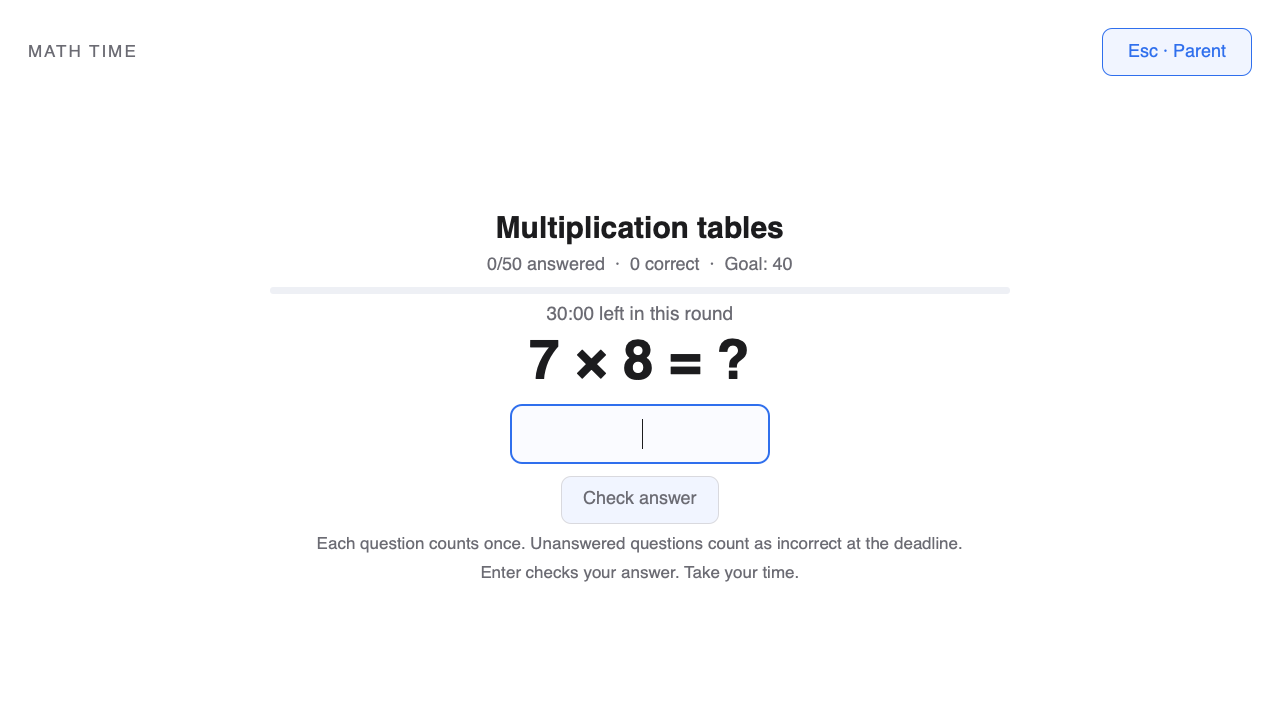
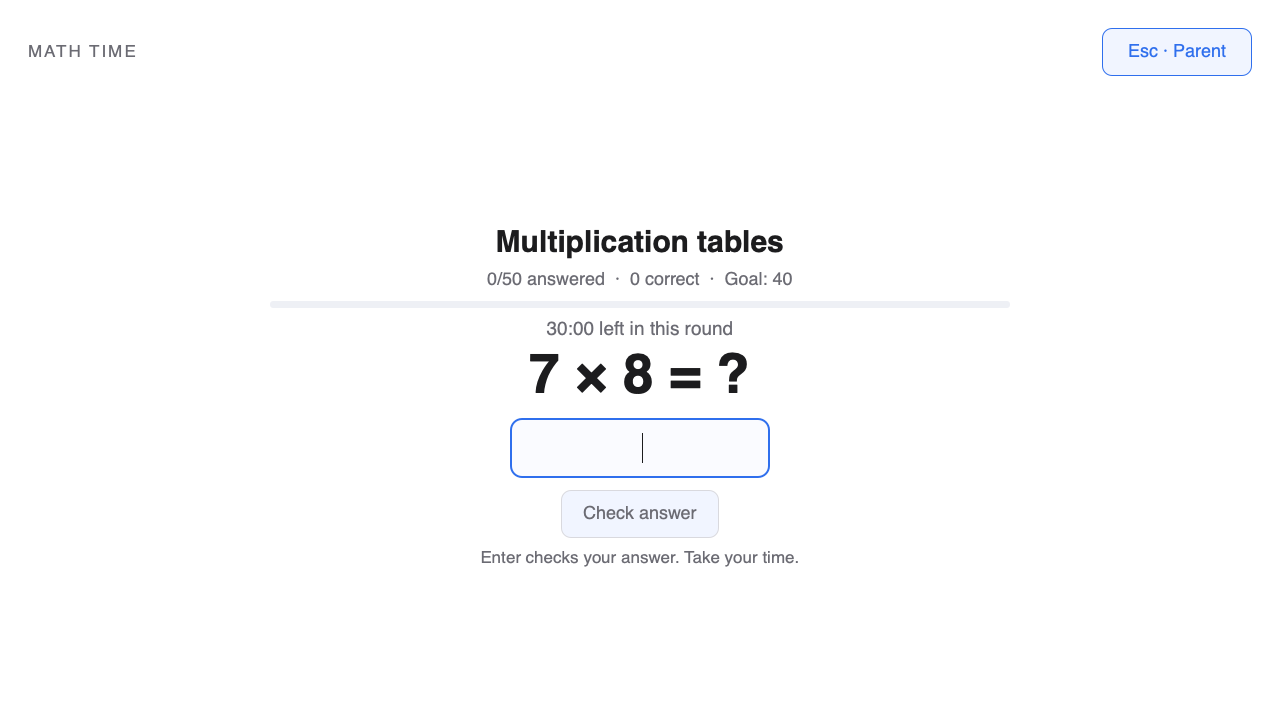
Remove scoring reminder from Math Time footer

diff --git a/PracticeSheet.qml b/PracticeSheet.qml
@@ -221,14 +221,14 @@ Rectangle {
     Text {
       objectName: "roundGuidance"
       width: parent.width
-      visible: practising && !sheet.guidedRetry && !sheet.reviewing
+      visible: practising && !sheet.guidedRetry && !sheet.reviewing && text.length > 0
       text: sheet.waiting ? (sheet.correctCount >= sheet.targetScore
           ? "You reached your goal! Your desktop unlocks when this round's timer ends."
           : "When this timer ends, try 25 more questions in 15 minutes. Aim for 20 correct.")
         : sheet.state.last_round && !sheet.state.last_round.passed
           ? "Last round: " + sheet.state.last_round.correct + "/" + sheet.state.last_round.questions
             + ". Aim for 20/25 this round to finish."
-        : sheet.state.migration_note || "Each question counts once. Unanswered questions count as incorrect at the deadline."
+        : sheet.state.migration_note || ""
       textFormat: Text.PlainText
       color: Model.PALETTE.inkSoft
       font { family: sheet.family; pixelSize: 17 }
